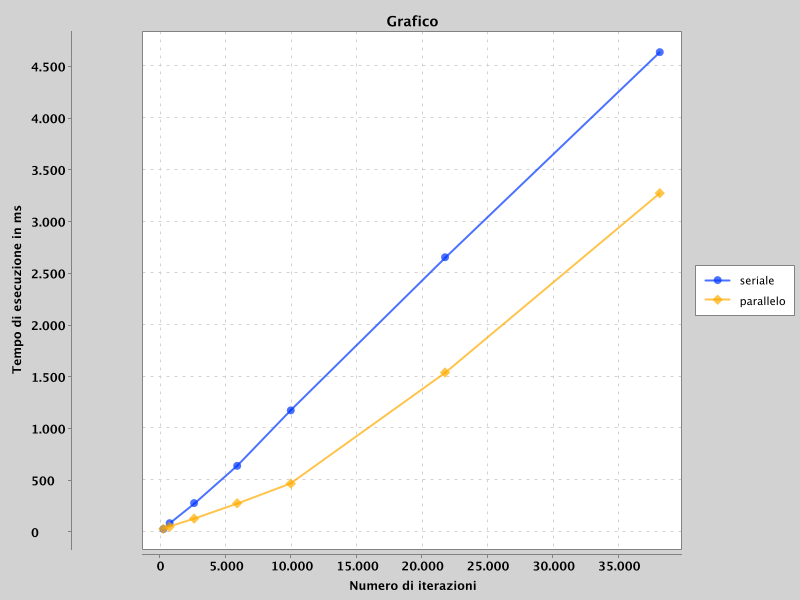
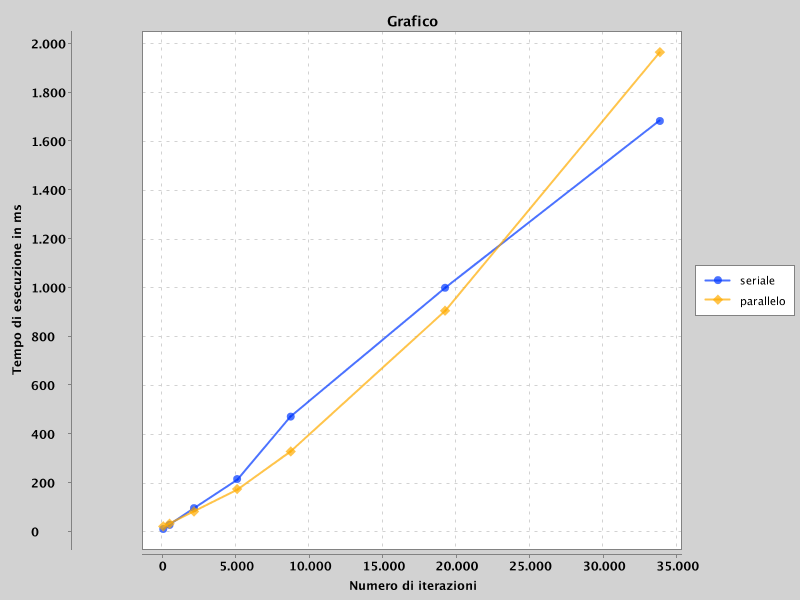
Domanda 2

diff --git a/Lab5/src/Main.java b/Lab5/src/Main.java
@@ -103,7 +103,7 @@ public class Main {
             for (double time: parallelTimeD1) {
                 System.out.print(time + " ");
             }
-            //double[] xData = new double[] { 0.0, 1.0, 2.0 , 3.0, 4.0, 5.0, 6.0};
+
             double[] yDataS=new double[7];
             for(int i=0; i< serialTimeD1.size(); i++) {
                 yDataS[i] = serialTimeD1.get(i);
@@ -118,51 +118,70 @@ public class Main {
             }
 
 
-// Create Chart
-            //XYChart chart = QuickChart.getChart("Sample Chart", "X", "Y", "y(x)", xData, yDataD);
+            // Create Chart
             XYChart chart = new XYChartBuilder().width(800).height(600).title("Grafico").xAxisTitle("Numero di iterazioni").yAxisTitle("Tempo di esecuzione in ms").build();
             chart.addSeries("seriale", xData, yDataS);
             chart.addSeries("parallelo", xData, yDataD);
-// Show it
+            // Show it
             new SwingWrapper(chart).displayChart();
 
-// Save it
+            // Save it
             BitmapEncoder.saveBitmap(chart, "./Sample_Chart", BitmapEncoder.BitmapFormat.PNG);
 
-// or save it in high-res
-            BitmapEncoder.saveBitmapWithDPI(chart, "./Sample_Chart_300_DPI", BitmapEncoder.BitmapFormat.PNG, 300);
 
 
-//
-//            // DOMANDA 2
-//            ArrayList<Long> serialTimeD2 = new ArrayList<Long>();
-//            ArrayList<Long> parallelTimeD2 = new ArrayList<Long>();
-//
-//
-//            for (int kappa=10; kappa <101; kappa++) {
-//
-//                // Seriale
-//                long startD2S = System.currentTimeMillis();
-//                List<Cluster> D2S = kmeans.serialKMeans(citiesList, kappa, iter);
-//                long timeD2S = System.currentTimeMillis() - startD2S;
-//                serialTimeD2.add(timeD2S);
-//
-//                // Parallelo
-//                long startD2P = System.currentTimeMillis();
-//                List<Cluster> D2P = kmeans.parallelKMeans(citiesList, kappa, iter);
-//                long timeD2P = System.currentTimeMillis() - startD2P;
-//                parallelTimeD2.add(timeD2P);
-//            }
-//            System.out.println("\n\n~~~~ Domanda 2: variare del numero di cluster (sempre più grande)");
-//            System.out.print("KMeans seriale: \n\t");
-//            for (long time: serialTimeD2) {
-//                System.out.print(time + " ");
-//            }
-//            System.out.print("\nKMeans parallelo: \n\t");
-//            for (long time: parallelTimeD2) {
-//                System.out.print(time + " ");
-//            }
-//
+            // DOMANDA 2
+            ArrayList<Double> serialTimeD2 = new ArrayList<Double>();
+            ArrayList<Double> parallelTimeD2 = new ArrayList<Double>();
+
+            for (int kappa=10; kappa <101; kappa++) {
+                // Seriale
+                double startD2S = System.currentTimeMillis();
+                Map<Integer, Cluster> D2S = kmeans.serialKMeans(citiesList, k, iter);
+                double timeD2S = System.currentTimeMillis() - startD2S;
+                serialTimeD2.add(timeD2S);
+
+                // Parallelo
+                double startD2P = System.currentTimeMillis();
+                ConcurrentHashMap<Integer, Cluster> D2P = kmeans.parallelKMeans(citiesList, k, iter);
+                double timeD2P = System.currentTimeMillis() - startD2P;
+                parallelTimeD2.add(timeD2P);
+            }
+            System.out.println("\n\n~~~~ Domanda 2: variare del numero di cluster (sempre più grande)");
+            System.out.print("KMeans seriale: \n\t");
+            for (double time: serialTimeD2) {
+                System.out.print(time + " ");
+            }
+            System.out.print("\nKMeans parallelo: \n\t");
+            for (double time: parallelTimeD2) {
+                System.out.print(time + " ");
+            }
+
+            double[] yDataS2=new double[7];
+            for(int i=0; i< serialTimeD2.size(); i++) {
+                yDataS2[i] = serialTimeD2.get(i);
+            }
+            double[] yDataD2=new double[7];
+            for(int i=0; i< parallelTimeD2.size(); i++) {
+                yDataD2[i] = parallelTimeD2.get(i);
+            }
+            double[] xData2=new double[101];
+            for(int i=0; i< 101; i++) {
+                yDataD2[i] = i;
+            }
+
+            // Create Chart
+            XYChart chart2 = new XYChartBuilder().width(800).height(600).title("Grafico").xAxisTitle("Numero di iterazioni").yAxisTitle("Tempo di esecuzione in ms").build();
+            chart2.addSeries("seriale", xData2, yDataS2);
+            chart2.addSeries("parallelo", xData2, yDataD2);
+            // Show it
+            new SwingWrapper(chart2).displayChart();
+
+            // Save it
+            BitmapEncoder.saveBitmap(chart2, "./Sample_Chart", BitmapEncoder.BitmapFormat.PNG);
+
+
+
 //            // DOMANDA 3
 //            ArrayList<Long> serialTimeD3 = new ArrayList<Long>();
 //            ArrayList<Long> parallelTimeD3 = new ArrayList<Long>();
